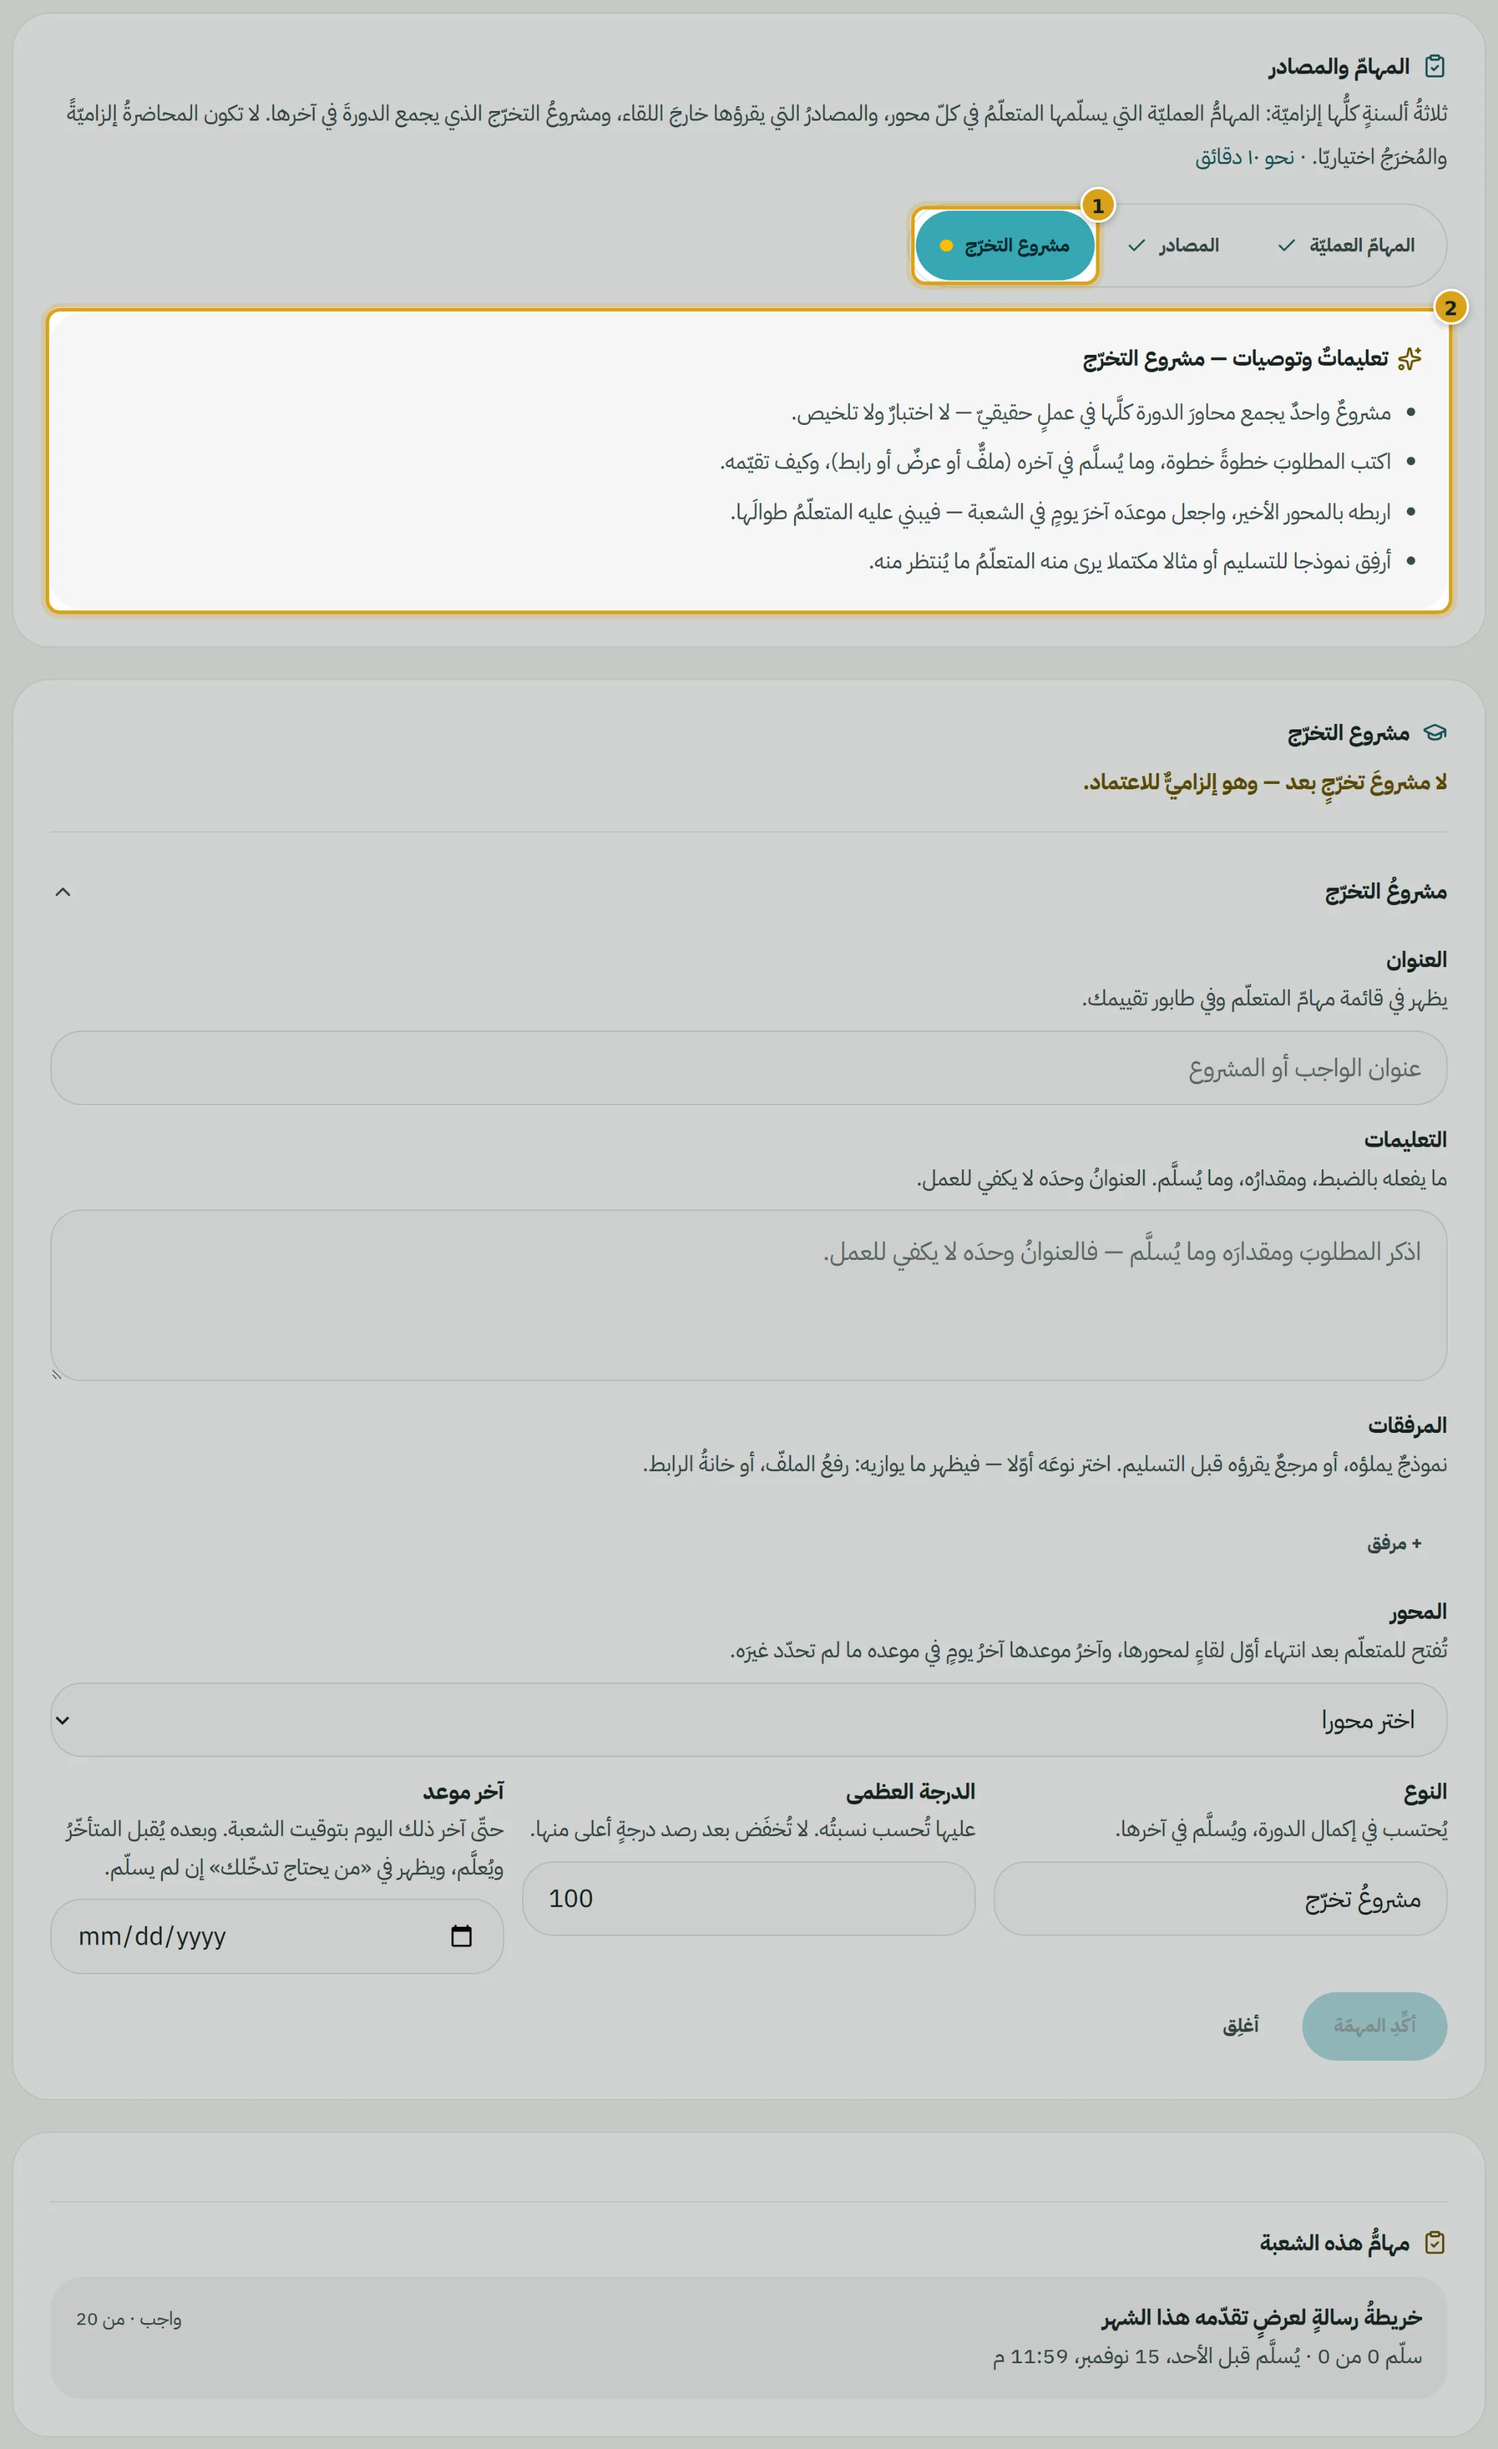
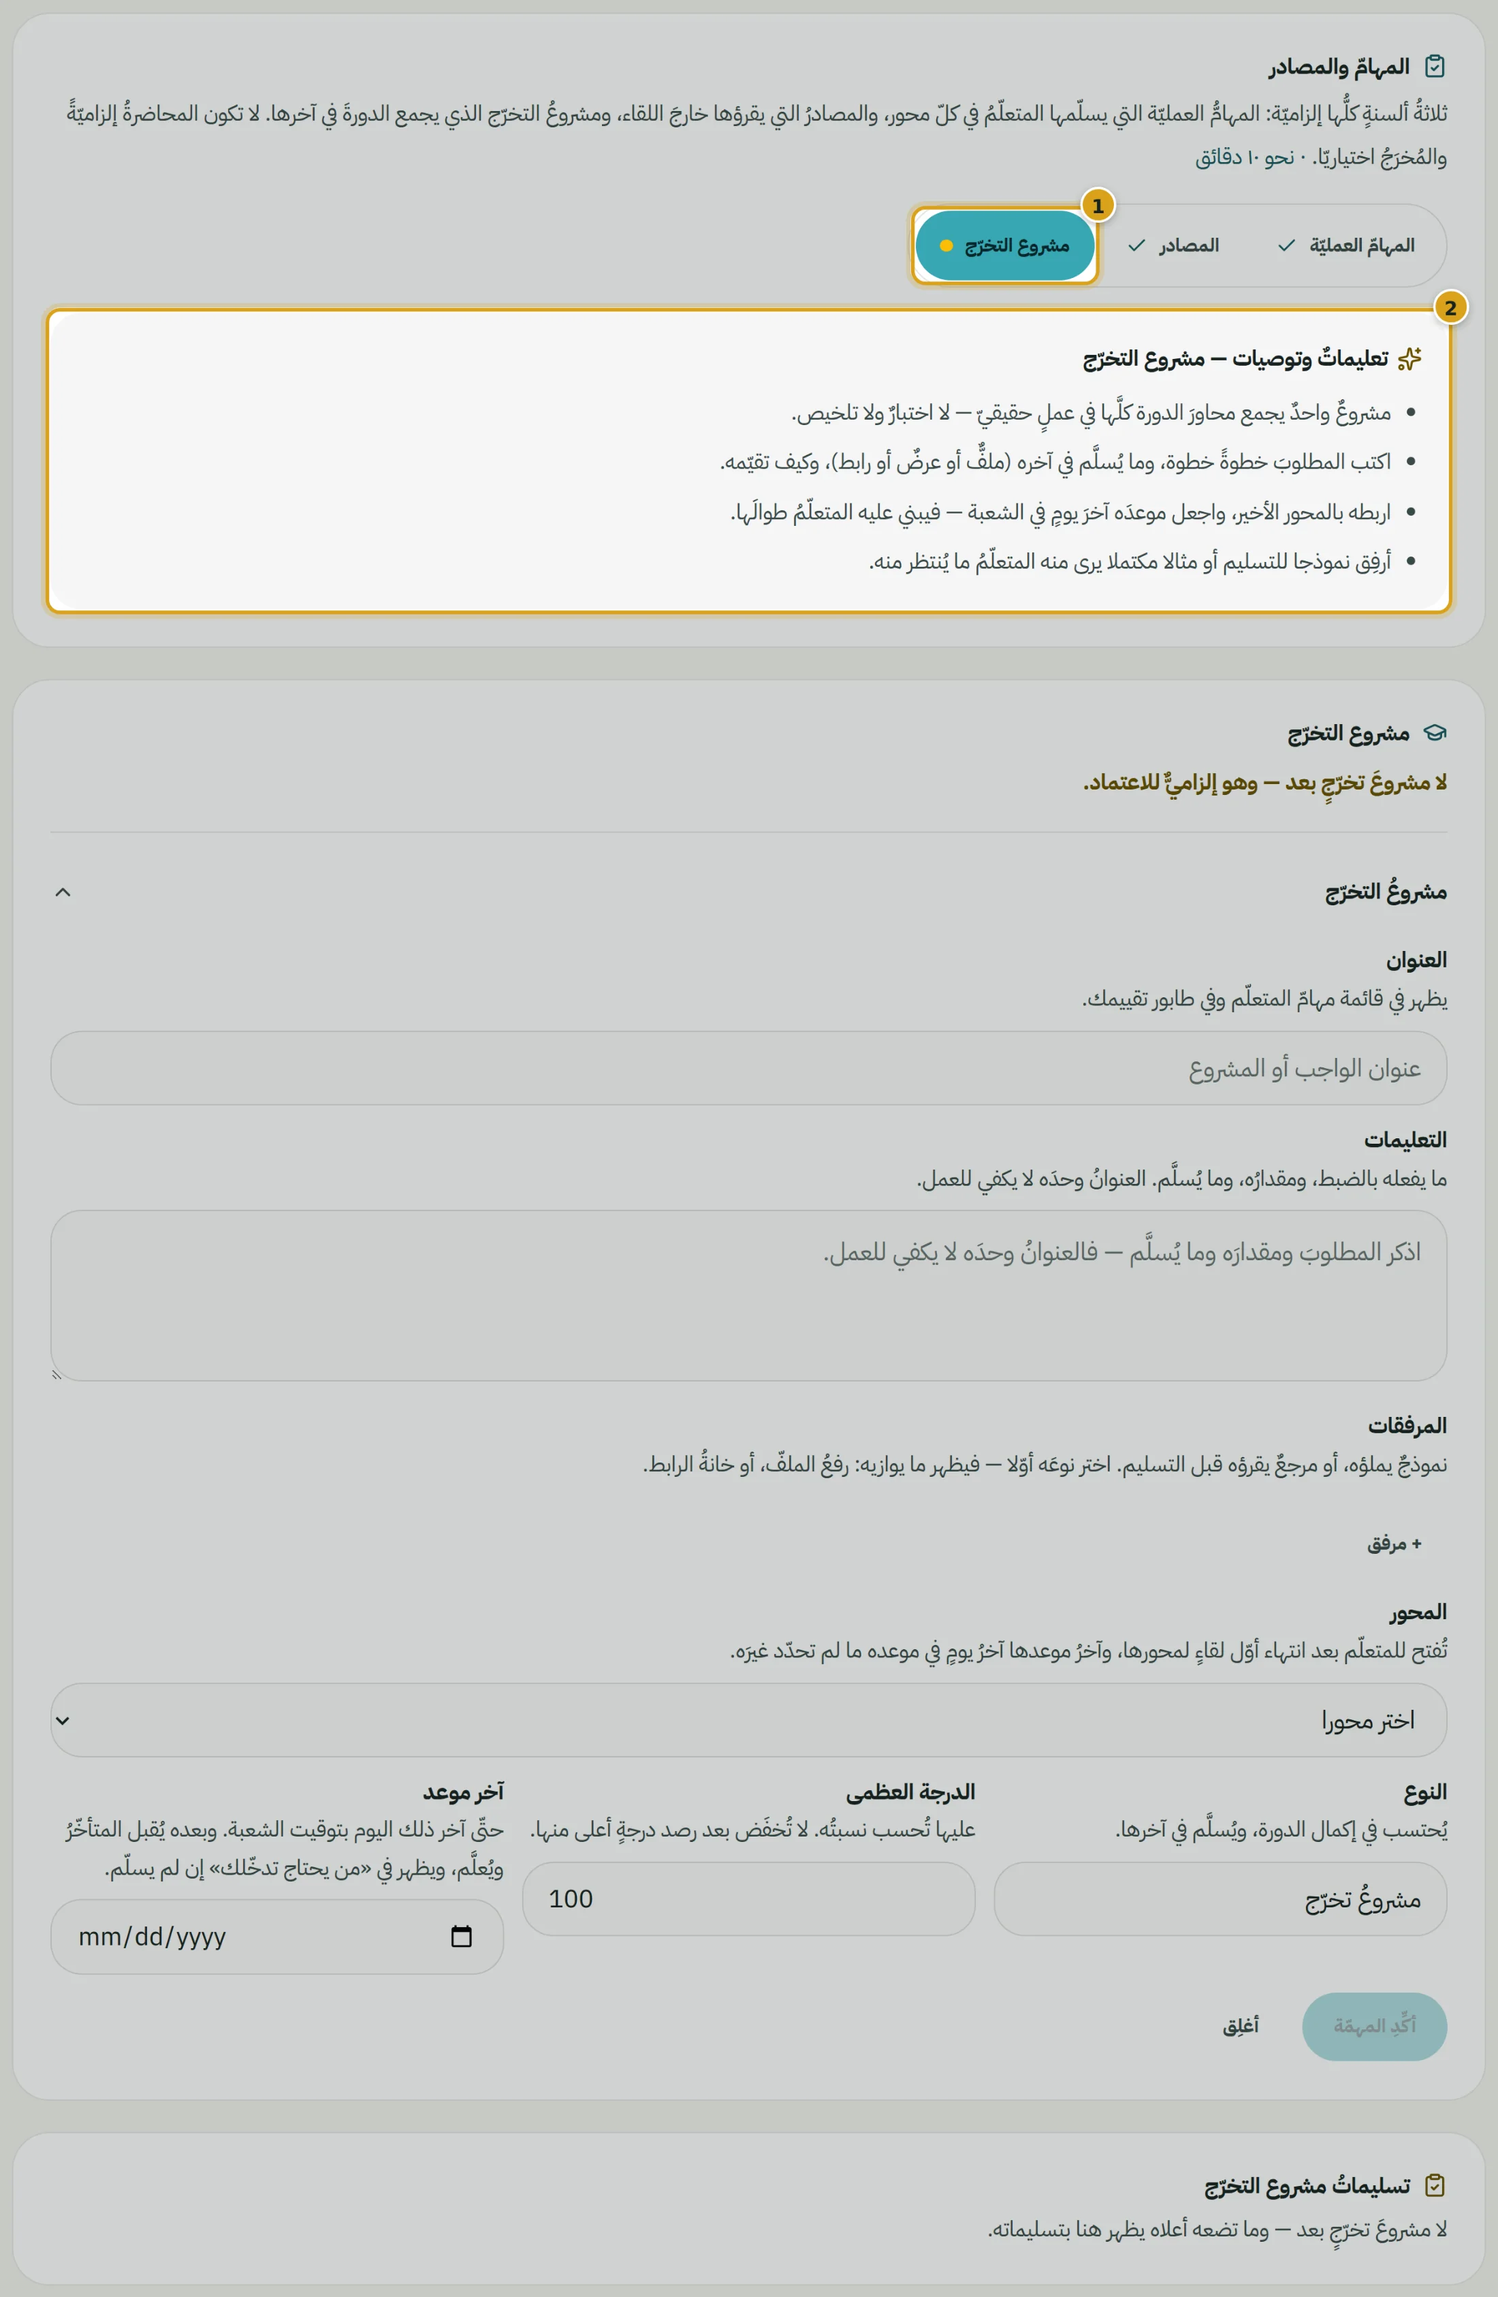
الدليل: صندوقُ التسليمات يتبع لسانَه، ولقطتا المهامّ والمشروع من جديد
لقطتا «المهامّ العمليّة» و«مشروع التخرّج» صُوّرتا قبل أن يُقصَر الصندوقُ على
لسانه، فكانتا تعرضان «مهامُّ هذه الشعبة» بكلّ المهامّ وفوقها فراغ. أُعيد
تصويرُهما، وزيد في الخطوة الخامسة سطرٌ يقول ما تحت كلّ لسان.

لا تغيّر في رقمٍ يُقبض أو يُخصم.

Claude-Session: https://claude.ai/code/session_01KvWc79RrumheVsskoZYsA3

diff --git a/src/data/trainer-guide/content.ts b/src/data/trainer-guide/content.ts
@@ -302,6 +302,7 @@ export const GUIDE_SECTIONS: GuideSection[] = [
           { text: 'وفي المرفقات اختر النوعَ أوّلا: «ملفّ» فيظهر «ارفع الملفّ»، أو فيديو أو رابط أو كتاب فتظهر خانةُ الرابط بتلميح نوعه.' },
           { text: '«المصادر»: كتابٌ أو ملفّ، أو رابطٌ عامّ، تربطه بمحوره — أو تجعله «قراءةٌ مسبقة» يُفتح مع أوّل يومٍ في موعده قبل اللقاء.' },
           { text: '«مشروع التخرّج»: مشروعٌ واحدٌ يجمع محاورَ الدورة في عملٍ حقيقيّ، مربوطٌ بالمحور الأخير وموعدُه آخرُ يومٍ في الشعبة.', detail: 'لا تُرسَل الخطّةُ للاعتماد بلا مشروعِ تخرّج — واللسانُ يحمل نقطةً ذهبيّةً حتّى تضعه.' },
+          { text: 'وأسفلَ «المهامّ العمليّة» و«مشروع التخرّج» صندوقُ تسليماتِ اللسان وحدَه: كم سلّم من متعلّمي شعبتك لكلّ مهمّة.', detail: 'فلا يظهر واجبٌ تحت «مشروع التخرّج»، ولا صندوقَ تحت «المصادر» — فالمصادرُ لا تُسلَّم.' },
         ],
       },
       { kind: 'figure', shot: 'ws-sources', alt: 'مصدرٌ مربوطٌ بمحوره ومعلَّمٌ قراءةً مسبقة', caption: '1 اسمُ المصدر · 2 محورُه · 3 «قراءةٌ مسبقة»' },

diff --git a/src/data/trainer-guide/shots.ts b/src/data/trainer-guide/shots.ts
@@ -158,7 +158,7 @@ export const GUIDE_SHOTS: Record<string, { w: number; h: number }> = {
   },
   "ws-tab-project": {
     "w": 2200,
-    "h": 3596
+    "h": 3372
   },
   "ws-tab-resources": {
     "w": 2200,
@@ -166,7 +166,7 @@ export const GUIDE_SHOTS: Record<string, { w: number; h: number }> = {
   },
   "ws-tab-tasks": {
     "w": 2200,
-    "h": 4183
+    "h": 4099
   },
   "ws-tasks": {
     "w": 2200,
